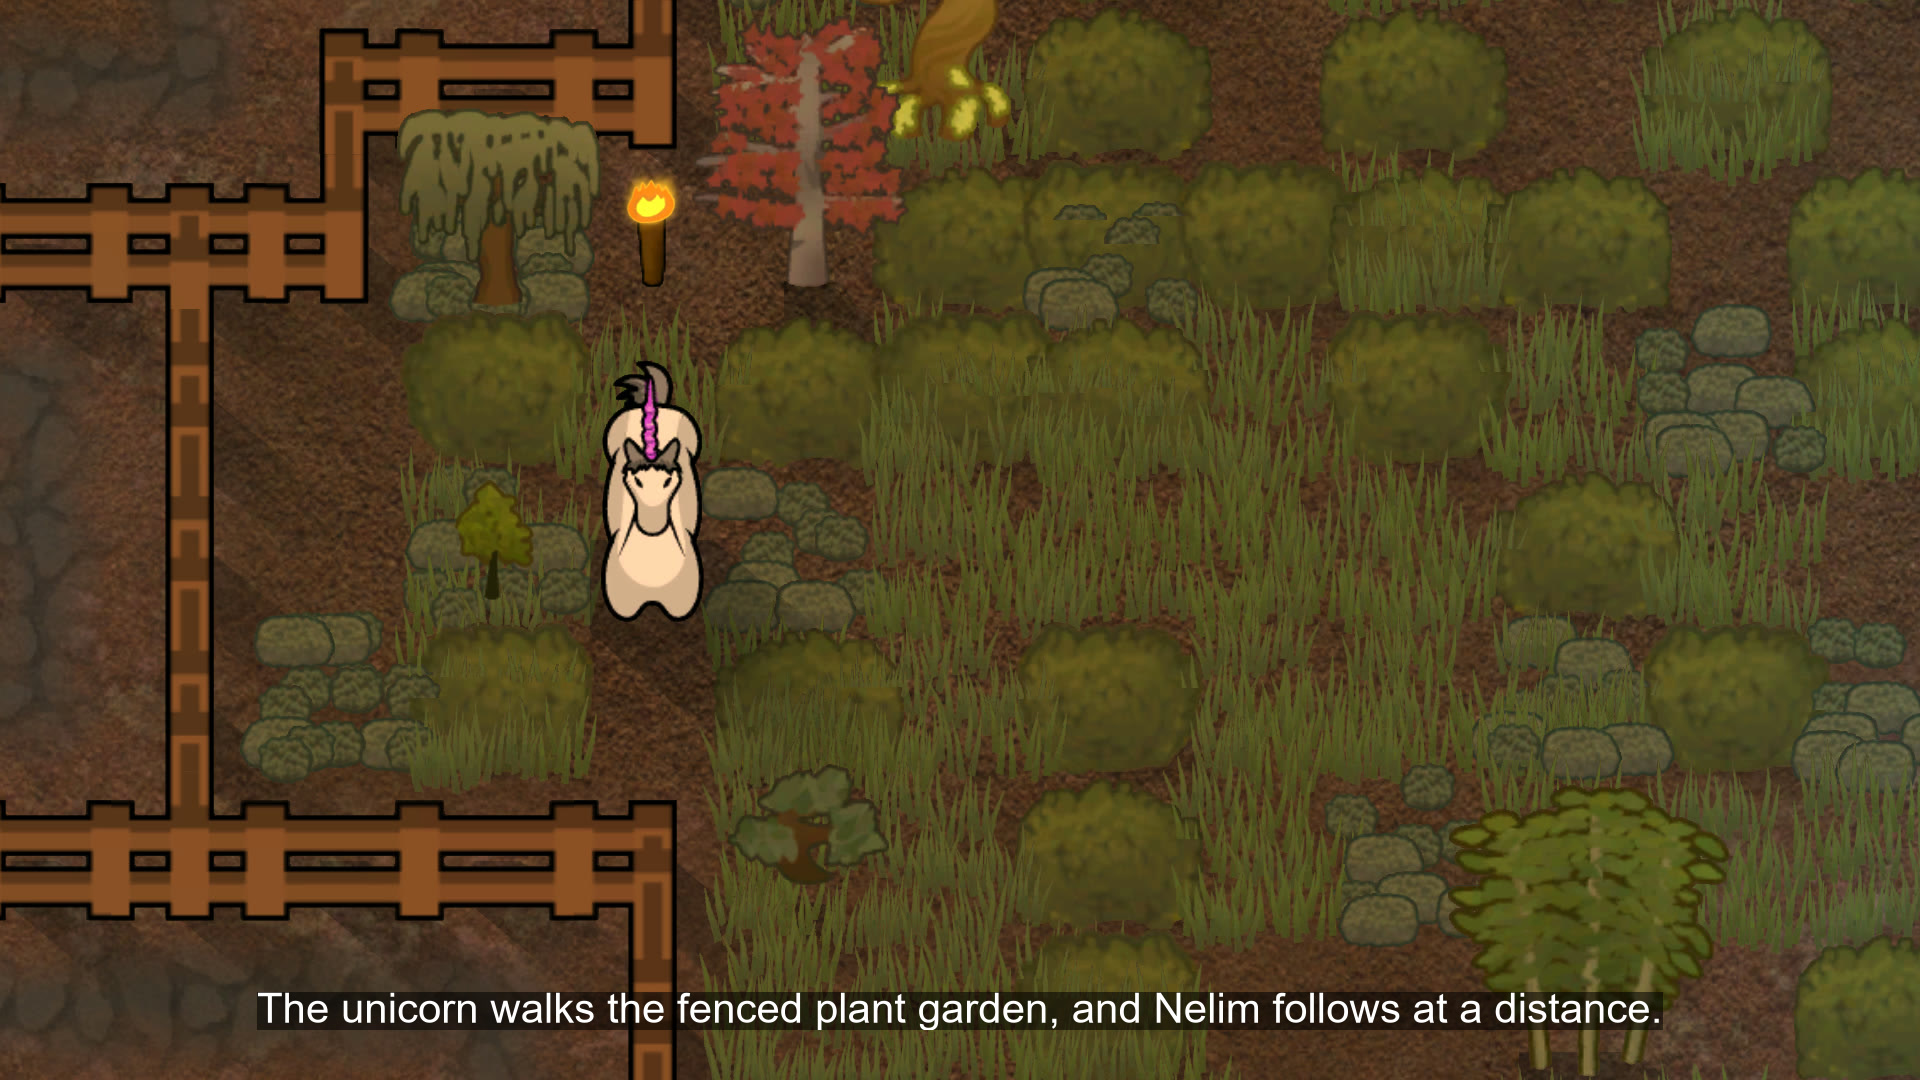
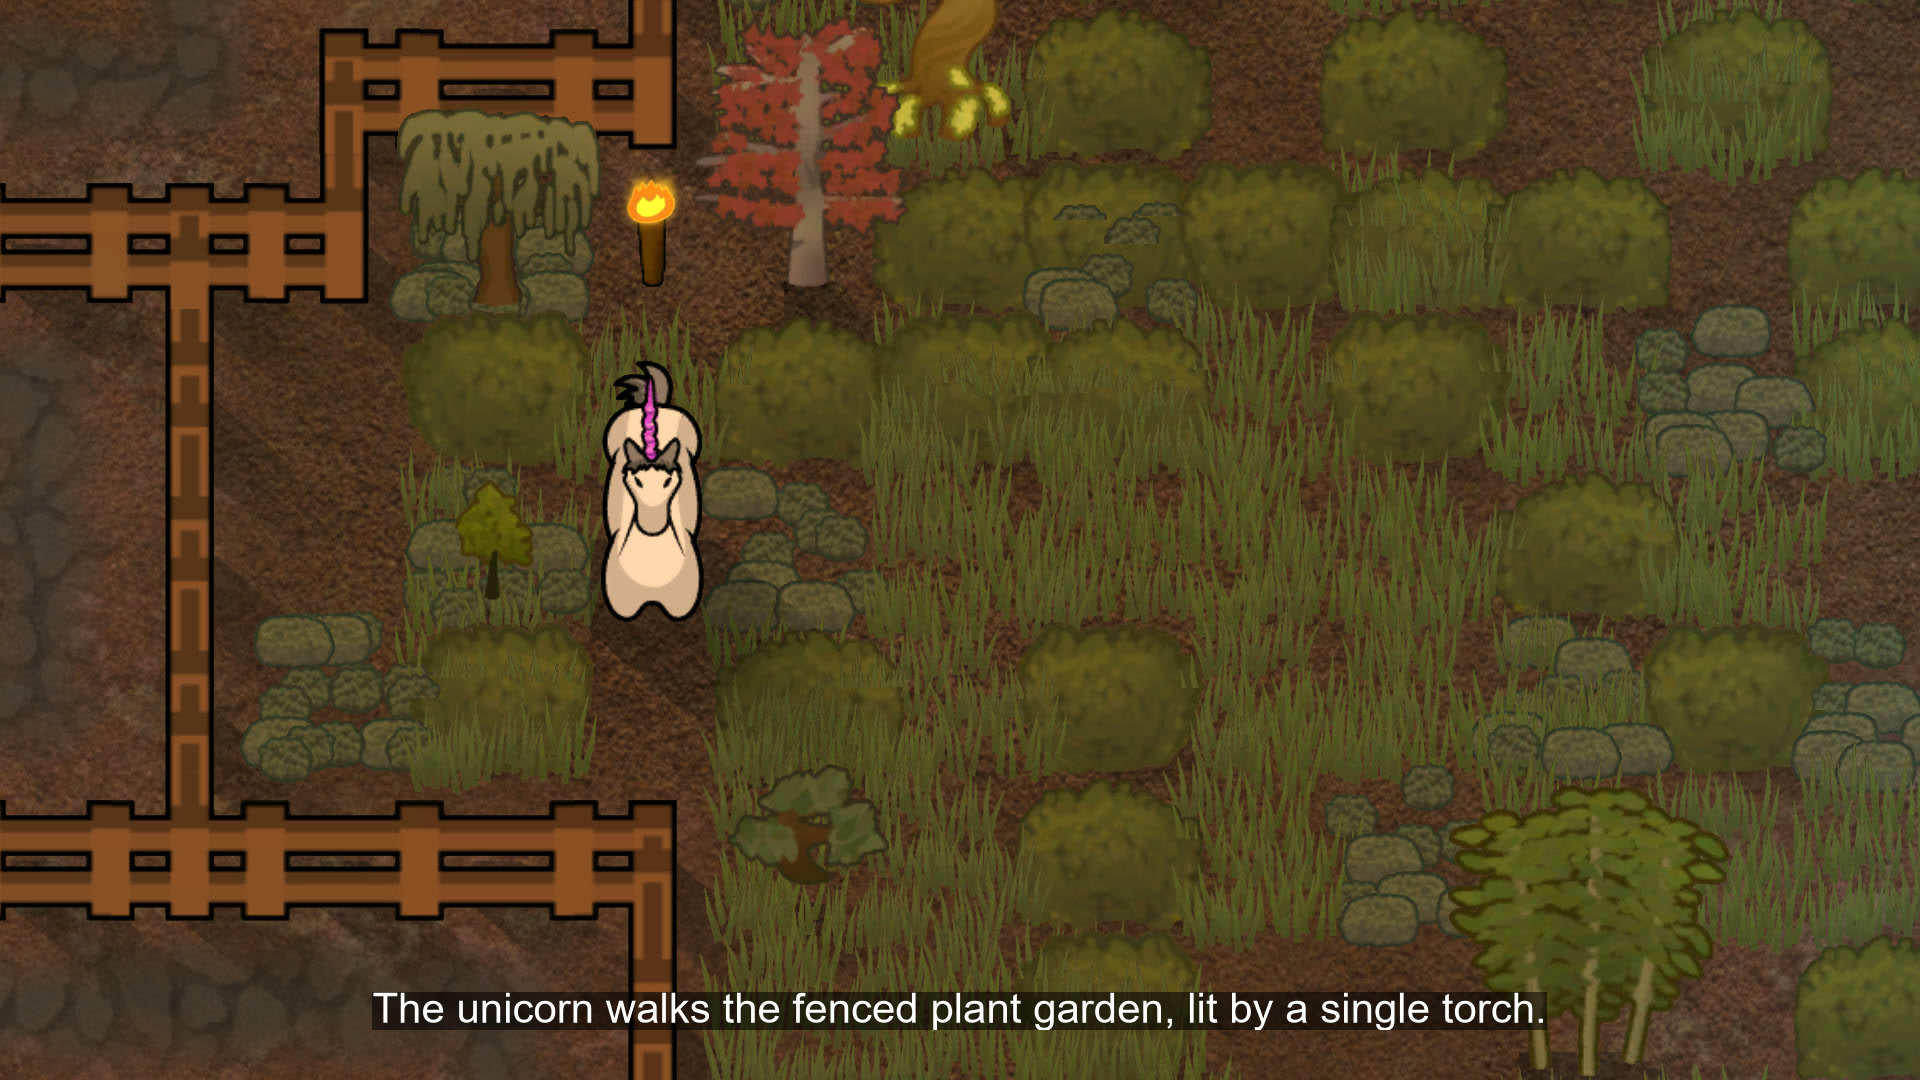
Gallery: subtitles of 5 and 6 match the pictures (no Nelim in frame)

Changed region(s): [[0.125, 0.9167, 0.875, 0.9778]]

diff --git a/PUBLICATION.md b/PUBLICATION.md
@@ -73,8 +73,8 @@ One English line at the bottom of each scene without an interface window (`GALLE
 | 2 phoenix in the hearth hall (`2-phoenix.jpg`) | The phoenix settles in the hearth hall and lights it like a second fire. |
 | 3 manticore by the paddies (`3-manticore.jpg`) | The manticore prowls the young rice, and a scarlet macaw drops in beside it. |
 | 4 kappa by the pond (`4-kappa.jpg`) | A water spirit rests on the bank of the round pond, and Nelim has come to see it. |
-| 5 pegasus at the water garden (`5-pegasus.jpg`) | The winged horse drinks among the lilies, and Nelim stops to watch. |
-| 6 unicorn in the plant garden (`6-unicorn.jpg`) | The unicorn walks the fenced plant garden, and Nelim follows at a distance. |
+| 5 pegasus at the water garden (`5-pegasus.jpg`) | The winged horse rests among the lilies, and a swan glides close by. |
+| 6 unicorn in the plant garden (`6-unicorn.jpg`) | The unicorn walks the fenced plant garden, lit by a single torch. |
 | 7 griffin among the statues (`7-griffin.jpg`) | The griffin settles among the statues, like one more statue come to life. |
 | hound on the gallery | The three-headed hound keeps the wooden gallery, and Nelim stands calm among the wary dogs. |
 | 9 hunt-trio, flower garden (`9-hunt-trio.jpg`) | Three beasts of the old hunts have come for the berries Nelim brings. |
